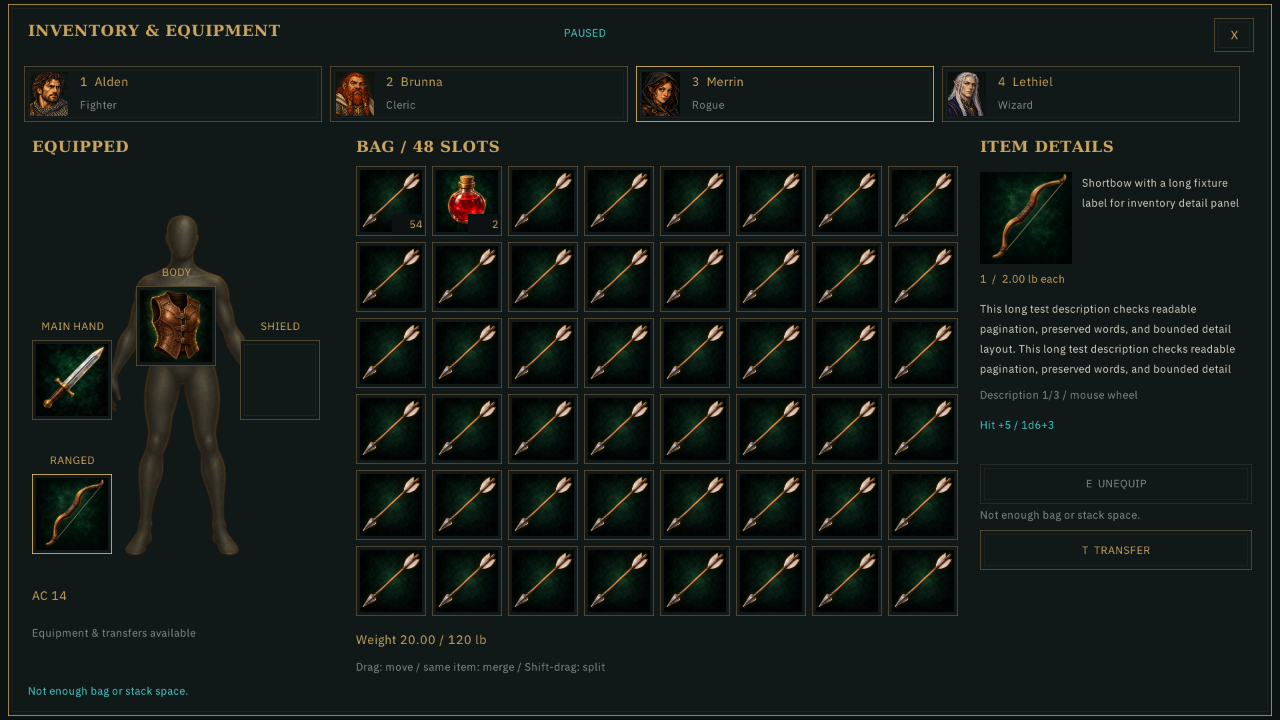
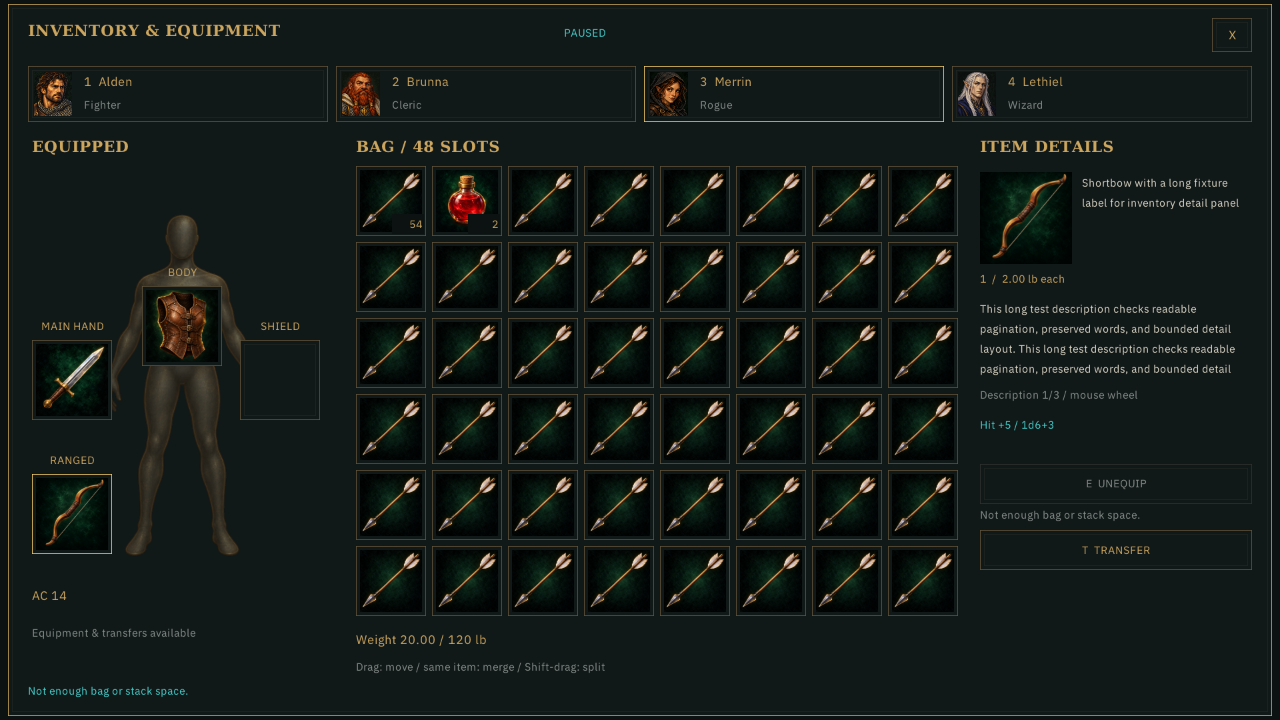
demo slice 11

diff --git a/src/ui/inventory_layout.hpp b/src/ui/inventory_layout.hpp
@@ -2,15 +2,15 @@
 #include "game/inventory_ui.hpp"
 #include "ui/layout.hpp"
 namespace blobber::inventoryLayout {
-constexpr UiRect panel{4, 2, 632, 356}, close{607, 9, 20, 17};
+constexpr UiRect panel{4, 2, 632, 356}, close{606, 9, 20, 17};
 constexpr UiRect tab(int i) {
-    return {12 + i * 153, 33, 149, 28};
+    return {14 + i * 154, 33, 150, 28};
 }
 constexpr UiRect cell(int i) {
     return {178 + (i % 8) * 38, 83 + (i / 8) * 38, 35, 35};
 }
 constexpr UiRect equipment(int i) {
-    return i == 0   ? UiRect{68, 143, 40, 40}
+    return i == 0   ? UiRect{71, 143, 40, 40}
            : i == 1 ? UiRect{16, 170, 40, 40}
            : i == 2 ? UiRect{120, 170, 40, 40}
                     : UiRect{16, 237, 40, 40};

diff --git a/docs/inventory_design.md b/docs/inventory_design.md
@@ -157,6 +157,13 @@ The 48-pixel bold control font is loaded once alongside the existing size-specif
 atlases and destroyed with UiFonts. Shared layout functions compact visible action
 rows identically for painting and hit testing.
 
+Follow-up alignment correction: center Body at the silhouette's x=91 axis.
+Use equal 150-unit character boxes with the existing 4-unit gaps, spanning x=14
+to x=626. This aligns the row with the title, leaves equal 10-unit panel insets,
+and aligns its right edge with the close button (shifted left by one unit).
+Drawing and pointer targets continue to use the shared layout rectangles. Verify
+with the existing inventory test and hidden native/reduced captures.
+
 I remains the inventory shortcut (already mapped, now regression-tested); M replaces
 F1 for map toggling. Remove the obsolete M/S inventory command bindings. Update the
 on-screen map hints and README. Replace the dock potion artwork with a separately

diff --git a/docs/slice11_verification.md b/docs/slice11_verification.md
@@ -194,3 +194,13 @@ Selected replacement review images:
 
 Reproduce with `cmake-build-debug/blobber --capture-inventory DIRECTORY --seed 5`.
 Continue review corrections within slice 11; do not start slice 12 until acceptance.
+
+Follow-up alignment review: Body moved 9 native pixels right to the silhouette's
+centerline. All four character boxes are now equally wider, with their original
+gaps preserved, equal panel insets, and edges aligned with the title and close
+button. The close button moved 3 native pixels left to keep those constraints exact.
+The Debug application build and inventory test pass; all 53 hidden captures were
+regenerated and the retained images above refreshed. Inspected native and reduced
+examples, including the [matching focus view](screenshots/slice11-review/inventory-focus.png).
+Interactive review remains with the user; no broader tests were needed for this
+shared-layout-only adjustment.
